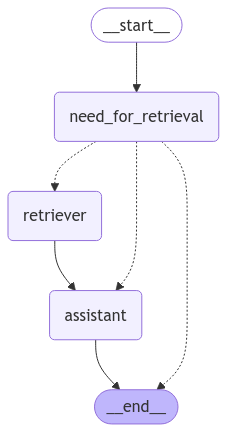
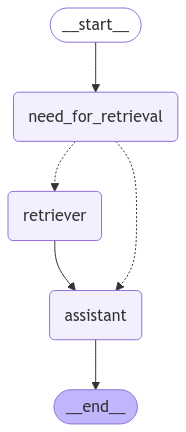
Removendo edge desnecessário

diff --git a/src/interaction/test_local_interaction.py b/src/interaction/test_local_interaction.py
@@ -1,16 +1,16 @@
 from utils.graph import graph
 from dotenv import load_dotenv
 
-load_dotenv()
+# load_dotenv()
 
-questions = [
-    "Oi eu sou Ubiratan.",
-    "Como ganhar dinheiro com a Hotmart?",
-    "Qual o meu nome?"
-]
-config = {"configurable": {"thread_id": "1234"}}
+# questions = [
+#     "Oi eu sou Ubiratan.",
+#     "Como ganhar dinheiro com a Hotmart?",
+#     "Qual o meu nome?"
+# ]
+# config = {"configurable": {"thread_id": "1234"}}
 
-for question in questions:
-    response = graph.invoke({"messages": [("user", question)], "question": question}, config)
+# for question in questions:
+#     response = graph.invoke({"messages": [("user", question)], "question": question}, config)
 
-    print(response['messages'][-1].content)
+#     print(response['messages'][-1].content)

diff --git a/src/interaction/utils/graph.py b/src/interaction/utils/graph.py
@@ -29,7 +29,7 @@ def conditional_retrieve(state: List[BaseMessage]) -> str:
     return ASSISTANT
 
 builder.add_edge(START, NEED_FOR_RETRIEVAL)
-builder.add_conditional_edges(NEED_FOR_RETRIEVAL, conditional_retrieve)
+builder.add_conditional_edges(NEED_FOR_RETRIEVAL, conditional_retrieve, {RETRIEVER:RETRIEVER, ASSISTANT:ASSISTANT})
 builder.add_edge(RETRIEVER, ASSISTANT)
 builder.add_edge(ASSISTANT, END)
 
